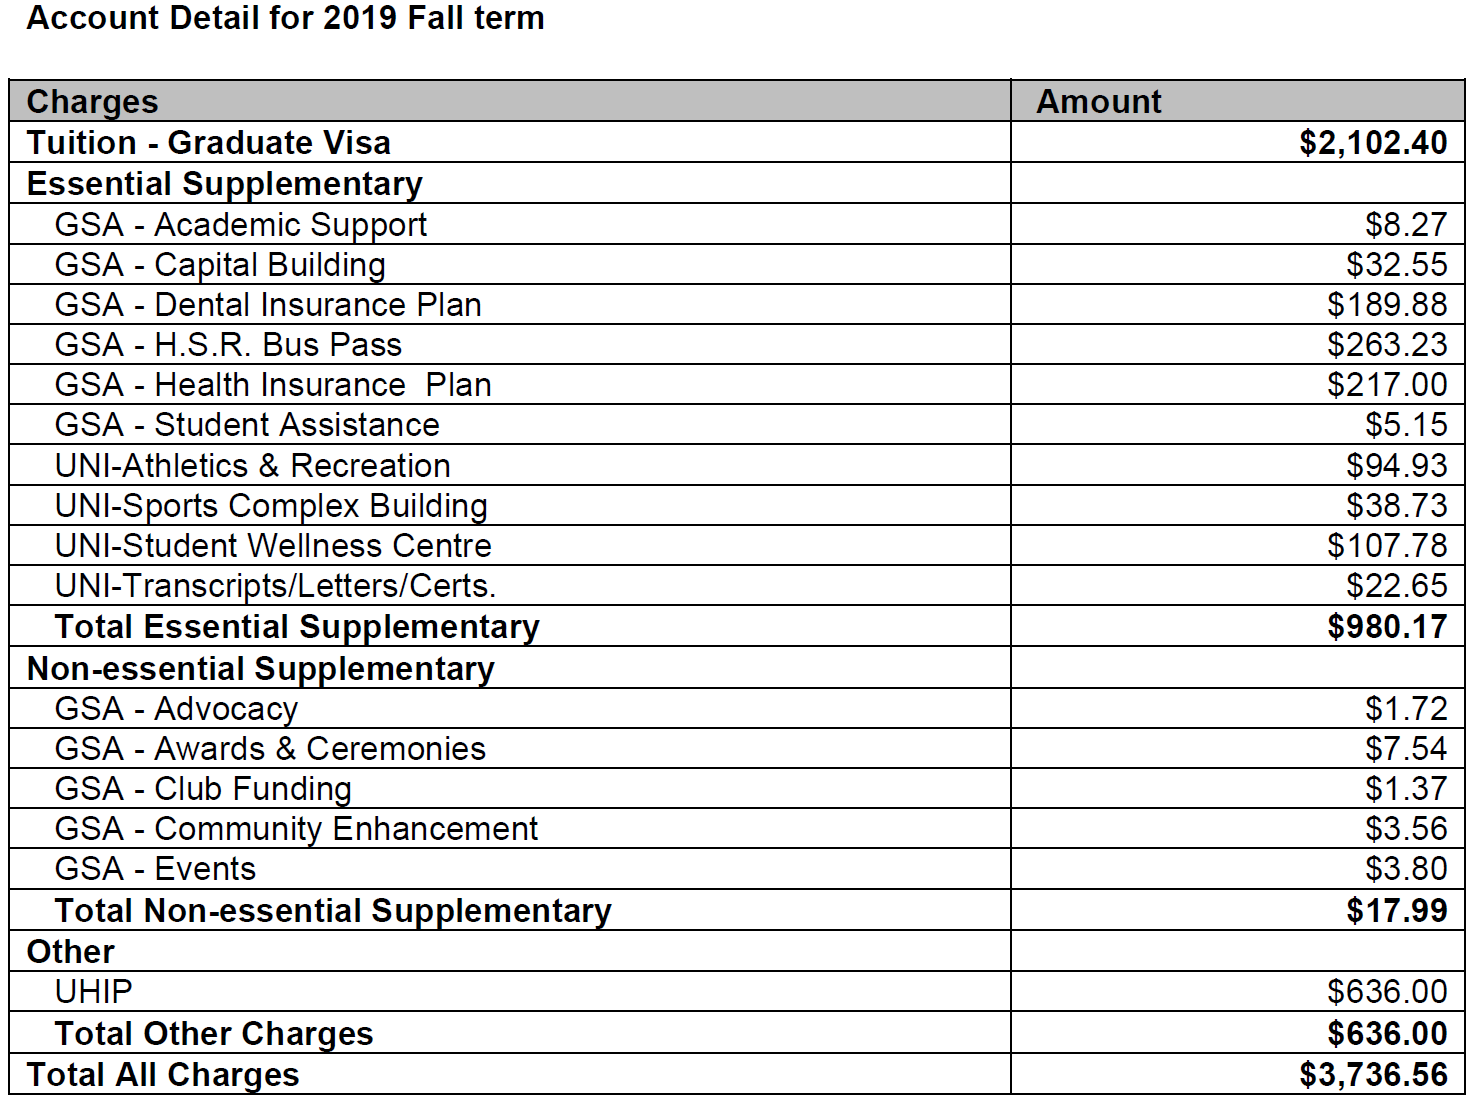
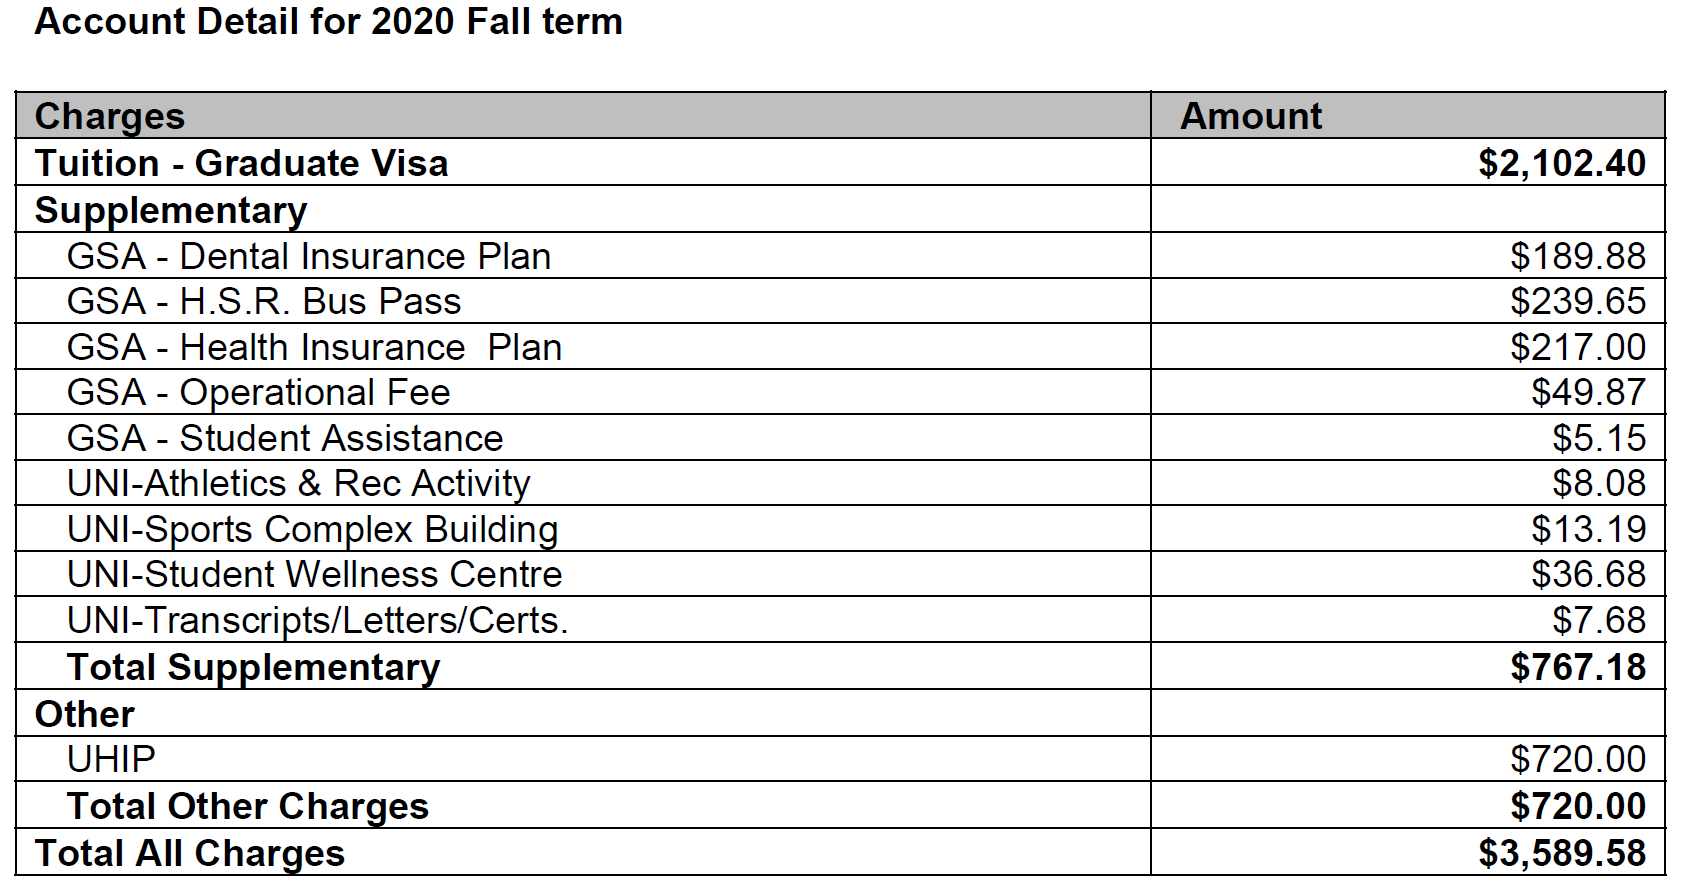
更新学费图片，更新最新信息。更新翻墙VPN

diff --git a/docs/BaoShui.rst b/docs/BaoShui.rst
@@ -34,9 +34,9 @@
 - 但这些产品一旦被加工过，比如是某品牌食品，或饭店里卖的菜肴等等就要交税了。不过也有个例外，就是加工过的食物，如果原始价格不超过$4，则不用交Ontario的8%的税，只需要交联邦5%的税即可。例如：Tim Hortons的咖啡，麦当劳的小汉堡。https://www.canada.ca/en/revenue-agency/services/forms-publications/publications/gi-064-harmonized-sales-tax-ontario-point-sale-rebate-on-prepared-food-beverages/harmonized-sales-tax-ontario-point-sale-rebate-on-prepared-food-beverages.html
 - 如果商品可以退货，那么交的税也会一起退回来。
 
-报税
+准备材料
 ---------------------------
-报税其实很简单，上一年交的多数税收会通过税表（Tax Form）反映出来。而雇主（Employer）一定会在3月之前把税表交给雇员（Employee）。雇员只需要把这些税表再通过在线或纸质的方法提供给税务局即可（Canada Revenue Agency，CRA）。和学生有关的税务申报税表主要有以下几种： 
+准备材料其实很简单，上一年交的多数税收会通过税表（Tax Form）反映出来。而雇主（Employer）一定会在3月之前把税表交给雇员（Employee）。雇员只需要把这些税表再通过在线或纸质的方法提供给税务局即可（Canada Revenue Agency，CRA）。和学生有关的税务申报税表主要有以下几种： 
 
 1. T2202（原来叫T2202A）表：全称是“Tuition, Education, and Textbook Amounts Certificate”。每年一二月份可以在mosaic上可以下载打印。
 
@@ -67,6 +67,8 @@
   - 保险花费（Premiums paid to private health services plans）：例如UHIP、GSA Health/Dental Insurance Plan、MSU Health/Dental Plan Insurance、CUPE 3906 Dental Plan等等只要是自己付费买的保险都是可以申报的。但像Post Doc等人员的部分保险是学校出钱买的，就不可以申报了。
   - 保险不能报销的医疗花费（Medical services by medical practitioners、Dental services等等）：例如，大家看病之后如果需要买药，则GSA的保险只能报销80%，而剩下20%就要自己付钱，这部分花费是可以申报的。此外，部分同学去看牙医的时候，花费超过了dental plan的报销额度，则自己付的超额的部分也可以申报。不管是哪种情形，都必须留好receipt。
 
+报税
+---------------------------
 由于我们国际学生的税务非常简单，基本上只有学费、房租、助教的收入、银行存款利息等等，大家不需要去寻求非常专业的报税服务，比如H&R Block等等大型税务公司。他们提供的报税服务，每人每年的费用高达几十加元。如果刚刚来不会报税，可以参考本页附录里的报税图文教程，也可以寻求免费报税的服务，通常有以下2种：
 
 1. McMaster University：https://money.mcmaster.ca/taxes/tax-clinics/ 。这个是每年3~4月份麦马免费给学生提供的报税服务。想参加这个活动需要尽快在Oscarplus的网站上注册。在报税过程中，学校的工作人员或者志愿者会教大家使用CRA认证的报税软件，然后当场就会报税完毕。学会之后，以后的年份就可以自己报了。 注册方法如下：

diff --git a/docs/KanBingYuBaoXian.rst b/docs/KanBingYuBaoXian.rst
@@ -25,7 +25,7 @@
 
 - 国际学生参加的是UHIP（University Health Insurance Plan），而Canada本国学生（Permanent residence和Canada citizen）参加的是OHIP（Ontario Health Insurance Plan）。UHIP从刚来Canada入学的前一个月的10号开始生效。毕业后，可以因要等待参加毕业典礼或者论文答辩延长最多4个月。
 - 官网：https://uhip.ca/
-- 费用（2019年）：国际学生需要付费参加UHIP，近几年的年费是单人$636，学生家属的费用和学生一样。
+- 费用（2020年）：国际学生需要付费参加UHIP，近几年的年费是单人$720，学生家属的费用和学生一样。
 - 学校的UHIP由Sun Life承保，从2017年开始学校会把UHIP coverage card（医保卡）通过邮件的方式发给大家，如果没收到可以自行上Sun Life网站打印UHIP coverage card。教程：http://uhip.ca/Enrollment/CoverageCard 。建议大家把打印出来的coverage card和自己的护照或驾照放一起。平时随身携带，以防万一。
 
 .. image:: /resource/Insurance/UHIP_coverage_card.jpg
@@ -261,7 +261,7 @@
 
  | Insurance Provider: Equitable Life of Canada
  | Policy #: 97528
- | Division #: Division #1(Postdoctoral Fellow members are part of Division 2.)
+ | Division #: Division #001 (Postdoctoral Fellow members are part of Division #002)
  | Certificate #: your student ID # (If your dentist requires a 10-digit number, add three zeros to the beginning of your ID number.)
 
 - 方法2：如果出示以上信息不能在看病时立即报销，则需要自己先付看牙医的费用，然后在 https://cupe3906.org/tas-unit-1/dental-plan/ 的“Forms”标题下下载“Dental Claim Form”。填好表格里相关的内容，附上所有看病的文件、收据等等。寄到表格里的地址。公司审核后会寄支票给你。

diff --git a/docs/XueFei.rst b/docs/XueFei.rst
@@ -5,7 +5,7 @@
 .. image:: /resource/XueFei/XueFeiList.png
    :align: center
 
-我们平常所说的“学费”，其实准确说法应该是“学杂费”，由Tuition（学费），Supplementary（杂费），Other（其它）三部分构成。其中杂费可以分为Essential Supplementary和Non-Essential Supplementary。Essential Supplementary是强制交的杂费，比如健康保险，公交车年卡等等。而Non-Essential Supplementary可以根据自己的喜好，可交可不交，但不交的话无法参加相应的活动。杂费也可以分为“GSA”和“UNI”两种，“GSA”类型的杂费是由麦马Graduate Students Association（GSA）研究生协会收取的，而“UNI”类型的杂费是McMaster University收取的。
+我们平常所说的“学费”，其实准确说法应该是“学杂费”，由Tuition（学费），Supplementary（杂费），Other（其它）三部分构成。其中杂费可以分为“GSA”和“UNI”两种，“GSA”类型的杂费是由麦马Graduate Students Association（GSA）研究生协会收取的，而“UNI”类型的杂费是McMaster University收取的。
 
 各program的费用明细：
 

diff --git a/docs/Wan.rst b/docs/Wan.rst
@@ -249,6 +249,7 @@
   - 费用：http://www.algonquinpark.on.ca/visit/general_park_info/fees-algonquin-park.php
   - Camping官方指导：http://www.algonquinpark.on.ca/visit/camping/
   - 阿岗昆枫叶颜色实时报告：http://www.algonquinpark.on.ca/visit/general_park_info/fall-colour-report.php
+  - 阿岗昆枫叶实时影像：http://www.algonquinpark.on.ca/virtual/webcam/index.php
   - 安省公园官网的介绍（注意看Camping和Maps）：https://www.ontarioparks.com/park/algonquin
 
 .. image:: /resource/Wan/Wan_Algonquin_Lookout_Trail.jpg

diff --git a/docs/JiaZhao.rst b/docs/JiaZhao.rst
@@ -94,8 +94,7 @@ G类驾照
 
 - 官网：http://westdaledriving.com/
 - 地址：1057 Main Street West L-03, Hamilton, ON L8S 1B7 
-- 驾校官方联系电话（英语）：(905)522-8381
-- 董教练：(289)237-9486 （他是这个驾校的华人教练，大家可以直接用中文普通话和他交流）
+- 驾校官方联系电话：(905)522-8381
 
 国际驾照
 --------------------------------------------------------------------------------------
